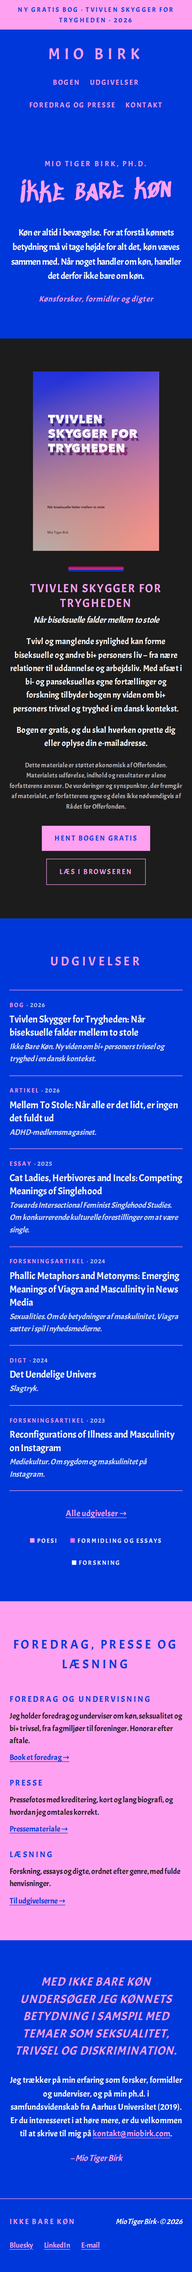
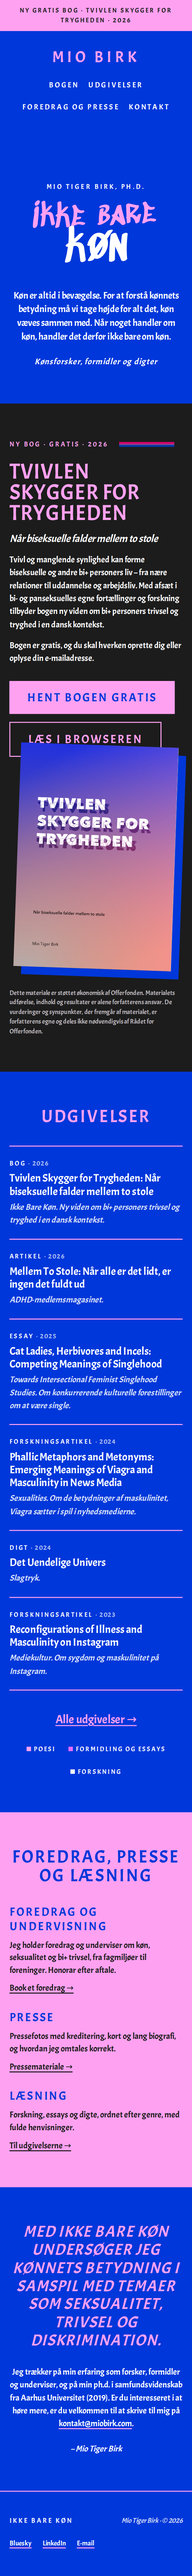
Kaelderen typography pass: nine-step fluid scale, poster book band
A typography designer agent researched current practice (Utopia
fluid scales, poster typography, all-caps leading and tracking,
one-weight hierarchy) and returned a specification; applied verbatim
plus two measured corrections (headline clearance, door heading
leading). Hero to 64-212px stacked Sedgwick lines, book title to
44-120px over a 30rem cover on an asymmetric hard-left grid with the
Offerfonden text at the band's foot, section headings to 36-72px
with tracking cut to .08em, om statement to 32-56px at 1.15, 24px
slab buttons, and a contrast rule reassigning pink to display sizes
only on cobalt. Verified by measurement at 1440 and 390: zero
overflow, zero contrast failures, zero unplanned collisions.

Claude-Session: https://claude.ai/code/session_01J3ibStbM354Uyysr7SDB7m

diff --git a/design/directions/retning-10-kaelderen.html b/design/directions/retning-10-kaelderen.html
@@ -19,12 +19,23 @@
 @font-face{font-family:'Sedgwick Ave Display';src:url('../assets/fonts/sedgwickave-display.woff2') format('woff2');font-display:swap}
 @font-face{font-family:'Sedgwick Ave';src:url('../assets/fonts/sedgwickave.woff2') format('woff2');font-display:swap}
 :root{
-  --blaa:#0036D9;      /* the ground: forskning's colour carries the room */
-  --rosa:#FEA4EF;      /* the voice */
-  --lilla:#D971FC;     /* the between, used sparingly */
-  --ink:#1C1C1C;
-  --hvid:#FFFFFF;
+  --blaa:#0036D9; --rosa:#FEA4EF; --lilla:#D971FC; --ink:#1C1C1C; --hvid:#FFFFFF;
   --flag-rosa:#D60270; --flag-lilla:#9B4F96; --flag-blaa:#0038A8;
+  /* Type scale, 390->1440 fluid (Utopia-style). The old 12-20px dead
+     zone is closed: the jumps are the drama. */
+  --t-fine:.8125rem; --t-label:.875rem;
+  --t-body:clamp(1.0625rem,1.016rem + .19vw,1.1875rem);
+  --t-lede:clamp(1.3125rem,1.15rem + .67vw,1.75rem);
+  --t-h4:1.5rem;
+  --t-title:clamp(1.375rem,1.19rem + .76vw,1.875rem);
+  --t-h2:clamp(2.25rem,1.414rem + 3.43vw,4.5rem);
+  --t-display:clamp(2.75rem,.986rem + 7.24vw,7.5rem);
+  --t-hero:clamp(4rem,.565rem + 14.1vw,13.25rem);
+  /* Spacing steps paired to the scale */
+  --s-m:1.5rem; --s-l:clamp(2rem,3vw,3rem);
+  --s-xl:clamp(2.5rem,5vw,4rem);
+  --s-2xl:clamp(4.5rem,2rem + 6vw,8rem);
+  --s-hero:clamp(4rem,14vh,9rem);
 }
 @supports (color: color(display-p3 1 1 1)){
   :root{
@@ -36,113 +47,133 @@
 ::selection{background:var(--rosa);color:var(--blaa)}
 *{margin:0;padding:0;box-sizing:border-box}
 @media (prefers-reduced-motion: reduce){*{transition:none!important;animation-duration:.01ms!important}}
-body{
-  background:var(--blaa);color:var(--hvid);
+body{background:var(--blaa);color:var(--hvid);
   font-family:Acme,system-ui,sans-serif;
-  font-size:1.1rem;line-height:1.55;
-  -webkit-font-smoothing:antialiased;
-}
-a{color:var(--rosa);text-underline-offset:3px}
-a:hover{color:var(--hvid)}
+  font-size:var(--t-body);line-height:1.55;-webkit-font-smoothing:antialiased}
+/* Contrast rule as voice: on cobalt, pink speaks only at display volume
+   (>=24px); every small utterance is white. On pink bands small text is
+   ink; blue only >=24px. On the ink band pink is free at any size. */
+a{color:var(--hvid);text-decoration-color:var(--rosa);text-decoration-thickness:2px;text-underline-offset:4px}
+a:hover{text-decoration-thickness:3px}
 a:focus-visible{outline:2.5px solid var(--rosa);outline-offset:3px}
 .skip{position:absolute;left:-9999px;background:var(--ink);color:var(--hvid);padding:.6rem 1rem;z-index:10}
 .skip:focus{left:1rem;top:1rem}
 .wrap{max-width:64rem;margin:0 auto;padding:0 clamp(1.2rem,4vw,2.8rem)}
 .sr-only{position:absolute;width:1px;height:1px;padding:0;margin:-1px;overflow:hidden;clip:rect(0 0 0 0);white-space:nowrap;border:0}
 
-/* KK grammar: uppercase, letterspaced, centred headings */
-h2{font-weight:400;font-size:clamp(1.6rem,3.4vw,2.4rem);letter-spacing:.18em;text-transform:uppercase;text-align:center;color:var(--rosa)}
-.kicker{font-size:.95rem;letter-spacing:.22em;text-transform:uppercase;color:var(--rosa)}
+h2{font-weight:400;font-size:var(--t-h2);letter-spacing:.08em;line-height:1.05;
+  text-transform:uppercase;text-align:center;color:var(--rosa);text-wrap:balance}
+.kicker{font-size:var(--t-label);letter-spacing:.25em;text-transform:uppercase;color:var(--hvid)}
 
-/* Announce bar: pink, blue text */
-.announce{background:var(--rosa);color:var(--blaa);text-align:center;
-  font-size:.85rem;letter-spacing:.18em;text-transform:uppercase;padding:.55rem 1rem}
+.announce{background:var(--rosa);color:var(--ink);text-align:center;
+  font-size:var(--t-fine);letter-spacing:.2em;text-transform:uppercase;padding:.7rem 1rem}
 
-/* Masthead: blue, centred brand, nav below */
-header{padding:1.6rem 0 1.2rem;text-align:center}
-.brand{display:inline-block;color:var(--rosa);text-decoration:none;font-size:2rem;letter-spacing:.26em;text-transform:uppercase}
+header{padding:1.8rem 0 1.2rem;text-align:center}
+.brand{display:inline-block;color:var(--rosa);text-decoration:none;
+  font-size:clamp(2rem,1.629rem + 1.52vw,3rem);letter-spacing:.2em;text-transform:uppercase}
 .brand:hover{color:var(--hvid)}
 nav{margin-top:1.1rem}
 nav ul{list-style:none;display:flex;justify-content:center;gap:clamp(1.2rem,3vw,2.4rem);flex-wrap:wrap}
-nav a{font-size:.9rem;letter-spacing:.18em;text-transform:uppercase;text-decoration:none}
+nav a{font-size:.9375rem;letter-spacing:.2em;text-transform:uppercase;color:var(--hvid);
+  text-decoration:none}
+nav a:hover{text-decoration:underline;text-decoration-color:var(--rosa);text-decoration-thickness:2px}
 
-/* Hero: the tag on cobalt */
-.hero{padding:clamp(3rem,9vh,6rem) 0 clamp(3rem,8vh,5rem);text-align:center}
+/* Hero: full bleed, poster volume. Two stacked Sedgwick lines. */
+.hero{padding:var(--s-hero) 0 var(--s-2xl);text-align:center}
+.hero .bleed{max-width:none;padding:0 clamp(1.2rem,4vw,2.8rem)}
 .hero h1{font-weight:400;margin:0}
-.hero .tagword{display:inline-block;margin-top:1rem;font-family:'Sedgwick Ave Display',Acme,cursive;
-  color:var(--rosa);font-size:clamp(3.4rem,9.4vw,7rem);line-height:1.04;letter-spacing:.01em;
-  transform:rotate(-2deg)}
-.hero .tagword i{font-style:normal;display:inline-block}
-.hero .tagword .sp{width:.35em}
-.hero .tagword i:nth-child(3n+1){transform:rotate(2.4deg) translateY(.02em)}
-.hero .tagword i:nth-child(3n+2){transform:rotate(-2deg) translateY(-.025em)}
-.hero .tagword i:nth-child(4n+3){transform:rotate(1.2deg) translateY(.035em) scale(1.04)}
-.hero .standfirst{max-width:38rem;margin:2.2rem auto 0;font-size:clamp(1.15rem,2vw,1.35rem);line-height:1.6}
-.hero .byline{margin-top:1.2rem;font-style:italic;color:var(--rosa);font-size:1rem;letter-spacing:.06em}
+.tagword{display:inline-block;margin-top:1.2rem;font-family:'Sedgwick Ave Display',Acme,cursive;
+  font-size:var(--t-hero);line-height:.92;letter-spacing:.01em;transform:rotate(-2deg)}
+.tagword .l1{display:block;color:var(--rosa)}
+.tagword .l2{display:block;color:var(--hvid);font-size:1.45em;margin-top:-.08em}
+.tagword i{font-style:normal;display:inline-block}
+.tagword .sp{width:.35em}
+.tagword i:nth-child(3n+1){transform:rotate(2.4deg) translateY(.02em)}
+.tagword i:nth-child(3n+2){transform:rotate(-2deg) translateY(-.025em)}
+.tagword i:nth-child(4n+3){transform:rotate(1.2deg) translateY(.035em) scale(1.04)}
+.hero .standfirst{max-width:44ch;margin:var(--s-xl) auto 0;
+  font-size:clamp(1.1875rem,1.071rem + .476vw,1.5rem);line-height:1.45}
+.hero .byline{margin-top:var(--s-m);font-style:italic;font-size:var(--t-body);letter-spacing:.06em}
 
-/* Buttons: flat, square, KK pink/blue */
+/* Buttons: 24px slab. Large text, so blue-on-pink holds AA. */
 .btn{display:inline-block;background:var(--rosa);color:var(--blaa);text-decoration:none;
-  font-size:.9rem;letter-spacing:.18em;text-transform:uppercase;
-  padding:1em 1.8em;border:0;border-radius:0}
-.btn:hover{background:var(--hvid);color:var(--blaa)}
-.btn.ghost{background:transparent;color:var(--rosa);border:1.5px solid var(--rosa)}
+  font-size:var(--t-h4);letter-spacing:.12em;text-transform:uppercase;
+  padding:.85em 1.5em;border:0;border-radius:0;line-height:1.1}
+.btn:hover{background:var(--hvid)}
+.btn.ghost{background:transparent;color:var(--rosa);border:2px solid var(--rosa)}
 .btn.ghost:hover{color:var(--hvid);border-color:var(--hvid);background:transparent}
 
-/* Book: the black band */
-.book{background:var(--ink);padding:clamp(3rem,8vh,5rem) 0}
-.book-grid{display:grid;grid-template-columns:minmax(12rem,16rem) 1fr;gap:clamp(2rem,5vw,4rem);align-items:center;max-width:56rem;margin:0 auto}
-@media (max-width:48rem){.book-grid{grid-template-columns:1fr;justify-items:center;text-align:center}}
-.cover-img{display:block;width:100%;max-width:16rem;height:auto}
-.flagmark{width:7rem;margin:0 0 1.2rem}
+/* Book: the black band becomes a poster. Hard left, asymmetric; the
+   one deliberate break from the centred grammar. */
+.book{background:var(--ink);padding:var(--s-2xl) 0}
+.book .wrap{max-width:78rem}
+.book-grid{display:grid;grid-template-columns:minmax(0,1.2fr) minmax(16rem,30rem);
+  column-gap:clamp(2.5rem,6vw,6rem);align-items:start}
+.book-kicker{grid-column:1/-1;display:flex;align-items:center;gap:1.4rem;flex-wrap:wrap}
+.book-kicker .tag{color:var(--rosa);font-size:var(--t-label);letter-spacing:.22em;text-transform:uppercase}
+.flagmark{width:7rem}
 .flagmark i{display:block}
 .flagmark .s1{height:4px;background:var(--flag-rosa)}
 .flagmark .s2{height:2px;background:var(--flag-lilla)}
 .flagmark .s3{height:4px;background:var(--flag-blaa)}
-@media (max-width:48rem){.flagmark{margin:0 auto 1.2rem}}
-.book h3{font-weight:400;font-size:clamp(1.5rem,3vw,2.1rem);letter-spacing:.08em;text-transform:uppercase;color:var(--rosa);line-height:1.25}
-.book .sub{font-style:italic;color:var(--hvid);margin-top:.4rem;font-size:1.1rem}
+.book h3{grid-column:1/-1;position:relative;z-index:2;font-weight:400;
+  font-size:var(--t-display);line-height:.95;letter-spacing:.02em;
+  text-transform:uppercase;color:var(--rosa);margin-top:var(--s-m)}
+.book .text-col{margin-top:1rem}
+.book .sub{font-style:italic;font-size:var(--t-lede);line-height:1.35;margin-top:0}
 .book p{margin-top:1rem;max-width:34rem}
-.book .fine{font-size:.85rem;color:#BDB7BD;margin-top:1.2rem;max-width:34rem}
-.book .cta{margin-top:1.8rem;display:flex;gap:1rem;flex-wrap:wrap}
-@media (max-width:48rem){.book .cta{justify-content:center}}
+.book .cta{margin-top:2rem;display:flex;gap:1rem;flex-wrap:wrap}
+.cover-img{display:block;position:relative;z-index:1;width:100%;max-width:30rem;height:auto;
+  margin-top:calc(-1 * clamp(2rem,6vw,5.5rem));
+  transform:rotate(2deg);box-shadow:1rem 1rem 0 var(--blaa)}
+.book .fine{grid-column:1/-1;font-size:var(--t-fine);line-height:1.5;color:#BDB7BD;
+  max-width:70ch;margin-top:clamp(2.5rem,5vw,4rem)}
+@media (max-width:48rem){
+  .book-grid{grid-template-columns:1fr}
+  .book h3,.book .fine{grid-column:auto}
+  .cover-img{max-width:20rem;margin:-1.5rem auto 0}
+}
 
-/* Udgivelser: blue ground, pink rules */
-.sec{padding:clamp(3rem,8vh,5rem) 0}
-.udg-list{list-style:none;max-width:46rem;margin:2.4rem auto 0}
-.udg-list li{padding:1.3rem 0;border-top:1.5px solid var(--rosa)}
-.udg-list li:last-child{border-bottom:1.5px solid var(--rosa)}
-.udg-label{font-size:.78rem;letter-spacing:.2em;text-transform:uppercase;color:var(--rosa)}
-.udg-label .aar{color:var(--hvid);opacity:.75;letter-spacing:.12em}
-.udg-title{font-size:1.25rem;line-height:1.35;margin-top:.3rem}
-.udg-meta{font-style:italic;opacity:.85;font-size:1rem;margin-top:.2rem}
-.udg-more{text-align:center;margin-top:2rem}
-.register{display:flex;justify-content:center;gap:1.6rem;flex-wrap:wrap;margin-top:2rem;font-size:.8rem;letter-spacing:.14em;text-transform:uppercase}
-.register span i{display:inline-block;width:.7em;height:.7em;margin-right:.45em;border-radius:0}
+/* Udgivelser */
+.sec{padding:var(--s-2xl) 0}
+.udg-list{list-style:none;max-width:50rem;margin:var(--s-xl) auto 0}
+.udg-list li{padding:clamp(1.5rem,2.5vw,2.25rem) 0;border-top:2px solid var(--rosa)}
+.udg-list li:last-child{border-bottom:2px solid var(--rosa)}
+.udg-label{font-size:var(--t-fine);letter-spacing:.22em;text-transform:uppercase;color:var(--hvid)}
+.udg-label .aar{opacity:.7;letter-spacing:.12em}
+.udg-title{font-size:var(--t-title);line-height:1.2;margin-top:.45rem;max-width:40ch}
+.udg-meta{font-style:italic;opacity:.85;font-size:var(--t-body);margin-top:.35rem}
+.udg-more{text-align:center;margin-top:2.5rem}
+.udg-more a{font-size:var(--t-h4);color:var(--rosa)}
+.register{display:flex;justify-content:center;gap:1.6rem;flex-wrap:wrap;margin-top:var(--s-l);
+  font-size:var(--t-fine);letter-spacing:.18em;text-transform:uppercase}
+.register span i{display:inline-block;width:.7em;height:.7em;margin-right:.45em}
 .register .r1 i{background:var(--rosa)}
 .register .r2 i{background:var(--lilla)}
 .register .r3 i{background:var(--hvid)}
 
-/* Foredrag: pink band, ink text */
-.doors{background:var(--rosa);color:var(--ink);padding:clamp(3rem,8vh,5rem) 0}
+/* Doors: pink band, ink text, blue only at display volume */
+.doors{background:var(--rosa);color:var(--ink);padding:var(--s-2xl) 0}
 .doors h2{color:var(--blaa)}
-.doors-grid{display:grid;grid-template-columns:repeat(3,1fr);gap:clamp(1.6rem,4vw,3rem);max-width:56rem;margin:2.4rem auto 0}
+.doors-grid{display:grid;grid-template-columns:repeat(3,1fr);gap:clamp(2rem,5vw,3.5rem);
+  max-width:56rem;margin:var(--s-xl) auto 0}
 @media (max-width:48rem){.doors-grid{grid-template-columns:1fr}}
-.door h3{font-weight:400;font-size:1.05rem;letter-spacing:.16em;text-transform:uppercase;color:var(--blaa)}
-.door p{margin-top:.6rem;font-size:1rem}
-.door a{color:var(--blaa);font-weight:400}
-.door a:hover{color:var(--ink)}
+.door h3{font-weight:400;font-size:var(--t-h4);line-height:1.2;letter-spacing:.12em;text-transform:uppercase;color:var(--blaa)}
+.door p{margin-top:.7rem;font-size:var(--t-body);line-height:1.5}
+.door a{color:var(--ink);text-decoration-color:var(--ink);text-decoration-thickness:2px}
+.door a:hover{text-decoration-thickness:3px}
 
-/* Om: blue, the statement in italic pink, KK's own move */
+/* Om: its own step between h2 and display; caps tighten to 1.15 */
 .om{text-align:center}
-.om .display{font-style:italic;font-size:clamp(1.5rem,3.4vw,2.2rem);line-height:1.45;letter-spacing:.04em;color:var(--rosa);max-width:44rem;margin:0 auto;text-transform:uppercase}
-.om p{max-width:38rem;margin:1.8rem auto 0}
-.om .sign{font-style:italic;color:var(--rosa);margin-top:1.4rem}
+.om .display{font-style:italic;font-size:clamp(2rem,1.443rem + 2.29vw,3.5rem);line-height:1.15;
+  letter-spacing:.04em;color:var(--rosa);max-width:30ch;margin:0 auto;text-transform:uppercase}
+.om p{max-width:38rem;margin:var(--s-l) auto 0}
+.om .sign{font-style:italic;margin-top:var(--s-m)}
 
-/* Footer */
-footer{border-top:1.5px solid var(--rosa);padding:2.2rem 0 2.6rem;font-size:.95rem}
+footer{border-top:2px solid var(--rosa);padding:3rem 0 3.5rem;font-size:var(--t-label)}
 .foot{display:flex;justify-content:space-between;gap:1.5rem;flex-wrap:wrap;align-items:baseline}
-.foot .fb{letter-spacing:.18em;text-transform:uppercase;color:var(--rosa)}
-.foot address{font-style:italic}
+.foot .fb{letter-spacing:.22em;text-transform:uppercase}
+.foot address{font-style:italic;opacity:.8}
 .foot .links{display:flex;gap:1.4rem}
 </style>
 </head>
@@ -167,9 +198,9 @@ footer{border-top:1.5px solid var(--rosa);padding:2.2rem 0 2.6rem;font-size:.95r
 
 <main id="indhold">
   <section class="hero">
-    <div class="wrap">
+    <div class="bleed">
       <p class="kicker">Mio Tiger Birk, ph.d.</p>
-      <h1><span class="sr-only">Ikke bare køn</span><span class="tagword" aria-hidden="true"><i>I</i><i>k</i><i>k</i><i>e</i><i class="sp"></i><i>b</i><i>a</i><i>r</i><i>e</i><i class="sp"></i><i>k</i><i>ø</i><i>n</i></span></h1>
+      <h1><span class="sr-only">Ikke bare køn</span><span class="tagword" aria-hidden="true"><span class="l1"><i>I</i><i>k</i><i>k</i><i>e</i><i class="sp"></i><i>b</i><i>a</i><i>r</i><i>e</i></span><span class="l2"><i>k</i><i>ø</i><i>n</i></span></span></h1>
       <p class="standfirst">Køn er altid i bevægelse. For at forstå kønnets betydning må vi tage højde for alt det, køn væves sammen med. Når noget handler om køn, handler det derfor ikke bare om køn.</p>
       <p class="byline">Kønsforsker, formidler og digter</p>
     </div>
@@ -178,19 +209,22 @@ footer{border-top:1.5px solid var(--rosa);padding:2.2rem 0 2.6rem;font-size:.95r
   <section class="book" id="bogen">
     <div class="wrap">
       <div class="book-grid">
-        <img class="cover-img" src="../assets/omslag.png" alt="Bogomslag: Tvivlen Skygger for Trygheden – Når biseksuelle falder mellem to stole. Mio Tiger Birk.">
-        <div class="book-text">
+        <div class="book-kicker">
+          <span class="tag">Ny bog · Gratis · 2026</span>
           <div class="flagmark" aria-hidden="true"><i class="s1"></i><i class="s2"></i><i class="s3"></i></div>
-          <h3>Tvivlen Skygger for Trygheden</h3>
+        </div>
+        <h3>Tvivlen<br>Skygger for<br>Trygheden</h3>
+        <div class="text-col">
           <p class="sub">Når biseksuelle falder mellem to stole</p>
           <p>Tvivl og manglende synlighed kan forme biseksuelle og andre bi+ personers liv – fra nære relationer til uddannelse og arbejdsliv. Med afsæt i bi- og panseksuelles egne fortællinger og forskning tilbyder bogen ny viden om bi+ personers trivsel og tryghed i en dansk kontekst.</p>
           <p>Bogen er gratis, og du skal hverken oprette dig eller oplyse din e-mailadresse.</p>
-          <p class="fine">Dette materiale er støttet økonomisk af Offerfonden. Materialets udførelse, indhold og resultater er alene forfatterens ansvar. De vurderinger og synspunkter, der fremgår af materialet, er forfatterens egne og deles ikke nødvendigvis af Rådet for Offerfonden.</p>
           <div class="cta">
             <a class="btn" href="#">Hent bogen gratis</a>
             <a class="btn ghost" href="#">Læs i browseren</a>
           </div>
         </div>
+        <img class="cover-img" src="../assets/omslag.png" alt="Bogomslag: Tvivlen Skygger for Trygheden – Når biseksuelle falder mellem to stole. Mio Tiger Birk.">
+        <p class="fine">Dette materiale er støttet økonomisk af Offerfonden. Materialets udførelse, indhold og resultater er alene forfatterens ansvar. De vurderinger og synspunkter, der fremgår af materialet, er forfatterens egne og deles ikke nødvendigvis af Rådet for Offerfonden.</p>
       </div>
     </div>
   </section>

diff --git a/design/TYPOGRAPHY-COLOUR.md b/design/TYPOGRAPHY-COLOUR.md
@@ -398,3 +398,43 @@ type scale in use. Retning 10 passes at 1440 and 390 wide: zero
 overflow, zero contrast failures over 66 measured text elements,
 zero collisions. Screenshots remain deliverables for Ole, never the
 basis of analysis.
+
+## Kaelderen typography pass (Ole, 2026-07-21)
+
+Ole judged the first Kaelderen typography a carryover from Overlappet
+and asked for a deep pass by a typography designer agent, with more
+courageous sizes, alignments and leading. The agent researched the
+current bar first (Utopia fluid type method, poster typography
+practice, all-caps leading and tracking ranges, one-weight hierarchy
+technique; sources in the spec) and returned a full specification,
+applied verbatim with two measured corrections. The decisions:
+
+- Nine-step fluid scale (390 to 1440px), closing the former 12-20px
+  dead zone: fine 13, label 14, body 17-19, lede 21-28, h4 24,
+  title 22-30, h2 36-72, display 44-120, hero 64-212.
+- Hero: two stacked Sedgwick Ave Display lines, "Ikke bare" at
+  64-212px pink, "koen" at 1.45em white, line-height .92, full
+  bleed, rotate -2deg; standfirst 19-24px, 44ch, 1.45; kicker and
+  byline white.
+- Book band as poster: title 44-120px uppercase pink at .95 leading
+  with forced breaks, cover to 30rem with rotate 2deg and a flat
+  cobalt offset shadow, asymmetric hard-left grid (the page's one
+  break from the centred grammar), Offerfonden fine print moved to
+  the band's foot at 13px, buttons to 24px slabs (which is also what
+  makes blue-on-pink pass AA large-text).
+- Section headings 36-72px at 1.05 leading, tracking dropped from
+  .18em to .08em (label tracking does not belong at display size);
+  om statement 32-56px at 1.15; udgivelser titles 22-30px over 2px
+  rules with 1.6x row height.
+- Contrast rule as a system: on cobalt, pink only at or above 24px,
+  all small text white; on pink, small text ink, blue at or above
+  24px; on the ink band pink is free. This reassigned about ten
+  latent large-text-only usages (kicker, labels, footer brand,
+  announce bar, byline) to white or ink.
+- Spacing: section padding 4.5-8rem, heading-to-content 2.5-4rem.
+
+Measured after the pass, at 1440 and 390 wide: overflow 0, contrast
+failures 0 of all text elements, collisions 0 beyond the two designed
+overlaps (the stacked hero lines). The measurement harness gained
+per-element typography metrics (size, unitless leading, estimated
+measure in characters, tracking, alignment) for this verification.
